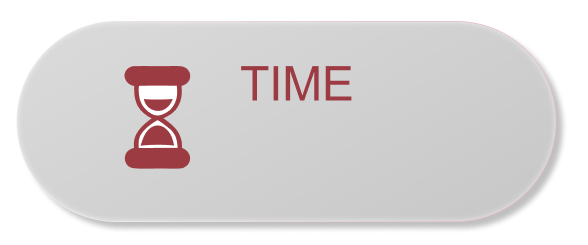
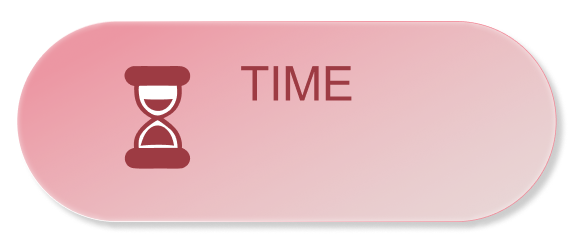
Refactor object scaling configuration and update player size settings in game and config components

diff --git a/src/components/GamePage.vue b/src/components/GamePage.vue
@@ -89,7 +89,9 @@ export default {
         bananaScore: 1000,
         carrotScore: 1000,
         // egg and milk removed
-        objectScale: 0.45,
+        objectSizeMin: 150,
+        objectSizeMax: 300,
+        playerSize: 200,
         negativeScore: -1,
         winScore: 20,
         gameTimer: 30,
@@ -252,7 +254,9 @@ export default {
           .setAlpha(0);
 
         this.bowl = this.add.sprite(0, -40, "bowl").setOrigin(0.5);
-        this.bowl.setScale(0.4);
+        const playerSizePx = gameConfig.playerSize || 200;
+        const bowlNativeW = this.textures.get("bowl").getSourceImage().width;
+        this.bowl.setScale(playerSizePx / bowlNativeW);
         const bowlWidth = this.bowl.displayWidth;
         const bowlHeight = this.bowl.displayHeight;
 
@@ -507,10 +511,12 @@ export default {
         item.setData("type", randomItem.type);
 
         item.setOrigin(0.5);
-        const sizeVariant = Phaser.Math.FloatBetween(0.9, 1.3);
-        const finalScale = (gameConfig.objectScale || 0.45) * sizeVariant;
-        item.setScale(finalScale);
-        item.setData("itemScale", finalScale);
+        const sizePx = Phaser.Math.Between(
+          gameConfig.objectSizeMin != null ? gameConfig.objectSizeMin : 150,
+          gameConfig.objectSizeMax != null ? gameConfig.objectSizeMax : 300
+        );
+        item.setDisplaySize(sizePx, sizePx);
+        item.setData("itemScale", item.scaleX);
 
         item.body.setAllowGravity(true);
         item.body.gravity.y = this.dropGravity;
@@ -792,18 +798,19 @@ export default {
           });
 
           // ── Bowl bounce ──
-          const bowlBaseScale = 0.4;
+          const bowlBaseScaleX = this.bowl.scaleX;
+          const bowlBaseScaleY = this.bowl.scaleY;
           this.tweens.add({
             targets: this.bowl,
-            scaleX: bowlBaseScale * 1.1,
-            scaleY: bowlBaseScale * 1.1,
+            scaleX: bowlBaseScaleX * 1.1,
+            scaleY: bowlBaseScaleY * 1.1,
             rotation: 0.1,
             yoyo: true,
             repeat: 0,
             duration: 200,
             ease: "Power1",
             onComplete: () => {
-              this.bowl.setScale(bowlBaseScale);
+              this.bowl.setScale(bowlBaseScaleX, bowlBaseScaleY);
               this.bowl.setRotation(0);
             },
           });

diff --git a/src/components/ConfigPage.vue b/src/components/ConfigPage.vue
@@ -1,9 +1,5 @@
 <template>
   <div class="config-page" :style="backgroundStyle">
-    <img :src="logoSrc" alt="Logo" class="logo" />
-
-    <h1 class="title">GAME SETTINGS</h1>
-
     <div class="config-container">
 
       <form @submit.prevent="saveConfiguration">
@@ -40,9 +36,22 @@
             <input type="number" id="gameTimer" v-model.number="config.gameTimer" min="10" max="300" />
           </div>
           <div class="config-group">
-            <label for="objectScale">Object Scale (0.1 - 2.0):</label>
-            <input type="number" id="objectScale" v-model.number="config.objectScale" min="0.1" max="2" step="0.05" />
-            <span class="help-text">Visual scale applied to falling objects</span>
+            <label for="objectSizeMin">Object Size Min (px):</label>
+            <input type="number" id="objectSizeMin" v-model.number="config.objectSizeMin" min="50" max="800" step="10"
+              placeholder="150" />
+            <span class="help-text">Smallest possible size for falling objects</span>
+          </div>
+          <div class="config-group">
+            <label for="objectSizeMax">Object Size Max (px):</label>
+            <input type="number" id="objectSizeMax" v-model.number="config.objectSizeMax" min="50" max="800" step="10"
+              placeholder="300" />
+            <span class="help-text">Largest possible size for falling objects</span>
+          </div>
+          <div class="config-group">
+            <label for="playerSize">Player Size (px):</label>
+            <input type="number" id="playerSize" v-model.number="config.playerSize" min="50" max="800" step="10"
+              placeholder="200" />
+            <span class="help-text">Size of the player (bottle) in pixels</span>
           </div>
         </div>
 
@@ -117,7 +126,9 @@ const DEFAULT_CONFIG = {
   appleScore: 1000,
   bananaScore: 1000,
   carrotScore: 1000,
-  objectScale: 0.45,
+  objectSizeMin: 150,
+  objectSizeMax: 300,
+  playerSize: 200,
   negativeScore: -1000,
   winScore: 24000,
   gameTimer: 30,

diff --git a/src/assets/js/game.js b/src/assets/js/game.js
@@ -17,7 +17,9 @@ function getConfig() {
     bananaScore: 10,
     carrotScore: 10,
     // egg and milk removed
-    objectScale: 0.9,
+    objectScaleMin: 0.6,
+    objectScaleMax: 1.2,
+    playerScale: 0.4,
     negativeScore: -1,
     winScore: 20,
     gameTimer: 30,
@@ -206,7 +208,7 @@ function preload() {
 
     // Set up bowl and enable physics
     this.bowl = this.add.sprite(0, -40, "bowl").setOrigin(0.5); // Adjust this Y value to move the bowl down
-    this.bowl.setScale(0.4);
+    this.bowl.setScale(gameConfig.playerScale || 0.4);
     const bowlWidth = this.bowl.displayWidth;
     const bowlHeight = this.bowl.displayHeight;
 
@@ -484,13 +486,15 @@ function preload() {
       callbackScope: this,
       loop: false,
     });
-    this.bowl.setScale(0.4);
+    this.bowl.setScale(gameConfig.playerScale || 0.4);
 
     // Spawn a random object from all types (normal, negative, special)
     var randomItem = Phaser.Math.RND.pick(this.fallingObjects);
 
     // Calculate item width for safe spawn using the render scale
-    const itemRenderScale = (gameConfig && gameConfig.objectScale) ? gameConfig.objectScale : 0.9; // configurable visual size
+    const scaleMin = (gameConfig && gameConfig.objectScaleMin != null) ? gameConfig.objectScaleMin : 0.6;
+    const scaleMax = (gameConfig && gameConfig.objectScaleMax != null) ? gameConfig.objectScaleMax : 1.2;
+    const itemRenderScale = scaleMin + Math.random() * (scaleMax - scaleMin); // random size between min and max
     const texture = this.textures.get(randomItem.key);
     const frame = texture.getSourceImage ? texture.getSourceImage() : null;
     const itemWidth = frame
